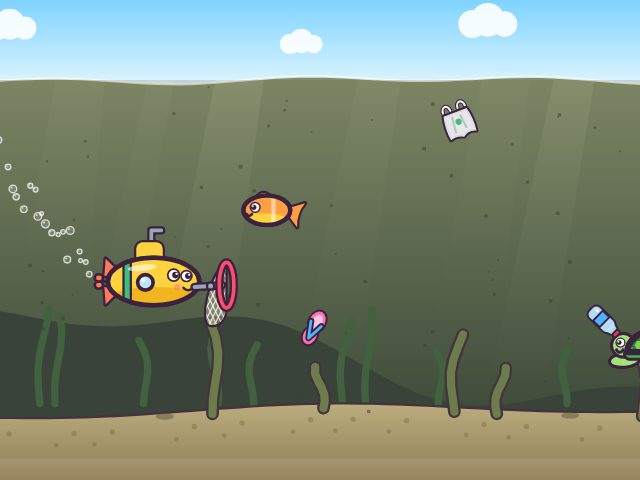
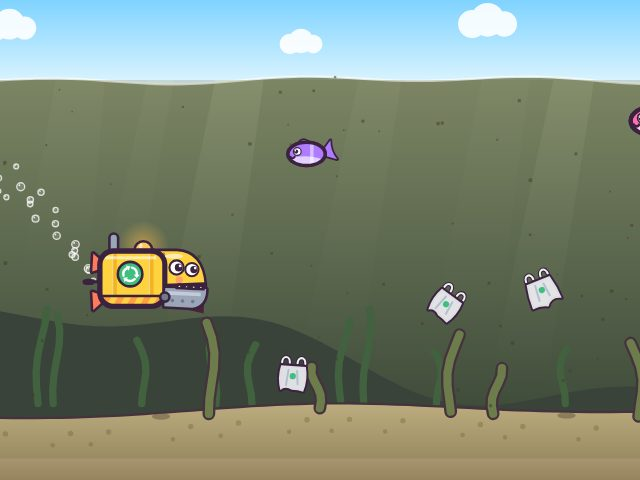
Plasticsoep Opruimer: garbage-truck sub with a chomping mouth
The submarine now has a garbage-truck container body, beacon light and a
mechanical jaw that opens when plastic comes close and chews after a bite
(replaces the net). The flip-flop becomes a cleaning spray bottle, and the
turtle is redrawn without the heavy rim outline.

diff --git a/games/plasticsoep-opruimer.html b/games/plasticsoep-opruimer.html
@@ -42,7 +42,7 @@ body{background:var(--sea);color:var(--ink);overflow:hidden;font-family:var(--fo
 </style>
 </head>
 <body>
-<canvas id="game" role="img" aria-label="Een gele duikboot vaart door de zee. Tik om omhoog te zwemmen en vang het plastic met het net; de vissen en andere zeedieren zwemmen er vrolijk omheen."></canvas>
+<canvas id="game" role="img" aria-label="Een gele duikboot vaart door de zee. Tik om omhoog te zwemmen en de duikboot-vuilniswagen eet het plastic op; de vissen en andere zeedieren zwemmen er vrolijk omheen."></canvas>
 <div class="count" id="count" aria-live="polite"><svg viewBox="0 0 40 40" aria-hidden="true"><g transform="rotate(-35 20 20)" stroke="#3b2340" stroke-width="2.6" stroke-linejoin="round"><rect x="13" y="12" width="14" height="24" rx="5" fill="#bfe6ff"/><rect x="13" y="20" width="14" height="7" fill="#4fb3ff"/><path d="M16 12 L17 7 H23 L24 12 Z" fill="#bfe6ff"/><rect x="16" y="2.5" width="8" height="5" rx="1.5" fill="#e8394d"/></g></svg><span id="num">0</span></div>
 <div class="title" id="title">
   <h1>Plasticsoep Opruimer</h1>
@@ -113,74 +113,83 @@ function eye(x,y,r,shut,look){
   c.fillStyle='#fff'; c.beginPath(); c.arc(x+(look||0)*r*0.3+r*0.2,y-r*0.22,r*0.2,0,P); c.fill();
 }
 
-/* ---------- submarine ---------- */
-const sub={y:0,vy:0,a:0,blink:3,happy:0,prop:0,squash:0};
-let netFill=[]; // colours of the bits of plastic in the net
-// net mouth in screen coordinates (the ring at the front)
-function netPos(){ const ca=Math.cos(sub.a), sa=Math.sin(sub.a), lx=S*1.6, ly=S*0.08; return [subX+lx*ca-ly*sa, sub.y+lx*sa+ly*ca]; }
+/* ---------- submarine (half garbage truck: a container body and a chomping mouth at the front) ---------- */
+const sub={y:0,vy:0,a:0,blink:3,happy:0,prop:0,squash:0,mouth:0,chew:0};
+// where the mouth swallows things, in screen coordinates
+function mouthPos(){ const ca=Math.cos(sub.a), sa=Math.sin(sub.a), lx=S*0.85*1.12, ly=S*0.22*1.12; return [subX+lx*ca-ly*sa, sub.y+lx*sa+ly*ca]; }
+function recycle(x,y,r){ // green badge with three chasing arrows
+  c.beginPath(); c.arc(x,y,r,0,P); c.fillStyle='#3fbf7f'; c.fill(); c.strokeStyle=INK; c.lineWidth=lw(); c.stroke();
+  c.strokeStyle='#fff'; c.fillStyle='#fff'; c.lineWidth=r*0.2; c.lineCap='round';
+  for(let i=0;i<3;i++){
+    const a0=i/3*P-Math.PI/2+0.3, a1=a0+P/3-0.75, rr=r*0.55, hx=x+Math.cos(a1)*rr, hy=y+Math.sin(a1)*rr, ta=a1+Math.PI/2;
+    c.beginPath(); c.arc(x,y,rr,a0,a1); c.stroke();
+    c.beginPath(); c.moveTo(hx+Math.cos(ta)*r*0.3,hy+Math.sin(ta)*r*0.3); c.lineTo(hx+Math.cos(a1)*r*0.24,hy+Math.sin(a1)*r*0.24); c.lineTo(hx-Math.cos(a1)*r*0.24,hy-Math.sin(a1)*r*0.24); c.closePath(); c.fill();
+  }
+}
 function drawSub(){
   const s=S, w=lw();
   c.save(); c.translate(subX,sub.y); c.rotate(sub.a);
-  const sq=1+sub.squash*0.12; c.scale(sq,1/sq);
+  const sq=1+sub.squash*0.12; c.scale(sq*1.12,1.12/sq);
   c.lineJoin='round'; c.lineCap='round';
-  // net bag (behind the hull), sagging under the nose
-  const bag=()=>{ c.beginPath(); c.moveTo(s*1.6,-s*0.42); c.bezierCurveTo(s*1.25,-s*0.3,s*0.95,s*0.95,s*1.25,s*0.98); c.bezierCurveTo(s*1.5,s*1.0,s*1.62,s*0.75,s*1.6,s*0.58); c.closePath(); };
-  bag(); c.fillStyle='rgba(255,248,236,0.25)'; c.fill();
-  c.save(); bag(); c.clip();
-  netFill.forEach((col,i)=>{ c.fillStyle=col; c.beginPath(); c.arc(s*(1.22+(i%3)*0.13),s*(0.86-Math.floor(i/3)*0.12),s*0.09,0,P); c.fill(); });
-  c.strokeStyle='rgba(255,248,236,0.85)'; c.lineWidth=Math.max(1,s*0.025);
-  for(let i=-6;i<8;i++){ c.beginPath(); c.moveTo(s*(0.9+i*0.12),-s*0.5); c.lineTo(s*(0.9+i*0.12+0.8),s*1.1); c.stroke(); c.beginPath(); c.moveTo(s*(0.9+i*0.12),s*1.1); c.lineTo(s*(0.9+i*0.12+0.8),-s*0.5); c.stroke(); }
-  c.restore();
-  bag(); c.strokeStyle=INK; c.lineWidth=w; c.stroke();
   // propeller
   const pr=Math.sin(sub.prop);
   c.strokeStyle=INK; c.lineWidth=w*1.2;
-  c.beginPath(); c.moveTo(-s*0.95,0); c.lineTo(-s*1.18,0); c.stroke();
+  c.beginPath(); c.moveTo(-s*1.0,0); c.lineTo(-s*1.25,0); c.stroke();
   c.fillStyle='#ff7a59';
-  for(const k of [1,-1]){ c.beginPath(); c.ellipse(-s*1.2,k*s*0.2*pr,s*0.09,Math.max(s*0.02,s*0.2*Math.abs(pr)),0,0,P); c.fill(); c.stroke(); }
+  for(const k of [1,-1]){ c.beginPath(); c.ellipse(-s*1.27,k*s*0.2*pr,s*0.09,Math.max(s*0.02,s*0.2*Math.abs(pr)),0,0,P); c.fill(); c.stroke(); }
   // tail fins
   outlineFill([
-    ()=>{ c.beginPath(); c.moveTo(-s*0.75,-s*0.2); c.lineTo(-s*1.05,-s*0.5); c.lineTo(-s*1.08,-s*0.12); c.closePath(); },
-    ()=>{ c.beginPath(); c.moveTo(-s*0.75,s*0.2); c.lineTo(-s*1.05,s*0.5); c.lineTo(-s*1.08,s*0.12); c.closePath(); },
+    ()=>{ c.beginPath(); c.moveTo(-s*0.9,-s*0.3); c.lineTo(-s*1.18,-s*0.55); c.lineTo(-s*1.2,-s*0.2); c.closePath(); },
+    ()=>{ c.beginPath(); c.moveTo(-s*0.9,s*0.3); c.lineTo(-s*1.18,s*0.55); c.lineTo(-s*1.2,s*0.2); c.closePath(); },
   ],'#ff7a59',w);
-  // conning tower + periscope
-  c.strokeStyle=INK; c.lineWidth=s*0.08+w*2;
-  c.beginPath(); c.moveTo(-s*0.05,-s*0.75); c.lineTo(-s*0.05,-s*1.12); c.lineTo(s*0.17,-s*1.12); c.stroke();
-  c.strokeStyle='#9aa6b8'; c.lineWidth=s*0.08; c.stroke();
-  outlineFill([()=>{ rrect(-s*0.38,-s*0.86,s*0.58,s*0.5,s*0.14); }],'#ffd23f',w);
-  // hull
-  const hull=()=>{ c.beginPath(); c.ellipse(0,0,s*1.0,s*0.52,0,0,P); };
-  outlineFill([hull],'#ffd23f',w);
-  c.save(); hull(); c.clip();
-  c.fillStyle='#f2b51f'; c.beginPath(); c.ellipse(s*0.05,s*0.42,s*1.1,s*0.3,0,0,P); c.fill();
-  c.fillStyle='#3fbf7f'; c.fillRect(-s*0.66,-s*0.6,s*0.16,s*1.2);
+  // exhaust pipe and the orange beacon light on the roof
+  c.strokeStyle=INK; c.lineWidth=s*0.12+w*2; c.beginPath(); c.moveTo(-s*0.78,-s*0.5); c.lineTo(-s*0.78,-s*0.86); c.stroke();
+  c.strokeStyle='#9aa6b8'; c.lineWidth=s*0.12; c.stroke();
+  const bl=0.5+0.5*Math.sin(t*(RM?2:7)), bx=-s*0.2, by=-s*0.62;
+  const gl=c.createRadialGradient(bx,by-s*0.08,0,bx,by-s*0.08,s*0.5); gl.addColorStop(0,'rgba(255,190,80,'+(0.55*bl)+')'); gl.addColorStop(1,'rgba(255,190,80,0)');
+  c.fillStyle=gl; c.beginPath(); c.arc(bx,by-s*0.08,s*0.5,0,P); c.fill();
+  outlineFill([()=>{ c.beginPath(); c.arc(bx,by,s*0.15,Math.PI,P); c.closePath(); }],mix([230,120,40],[255,200,90],bl),w);
+  c.fillStyle='rgba(255,255,255,0.7)'; c.beginPath(); c.ellipse(bx-s*0.05,by-s*0.08,s*0.03,s*0.05,0.4,0,P); c.fill();
+  // container + cab, outlined together so they read as one body
+  const box=()=>rrect(-s*1.05,-s*0.6,s*1.27,s*1.08,s*0.26);
+  const cab=()=>{ c.beginPath(); c.moveTo(0,-s*0.6); c.lineTo(s*0.45,-s*0.6); c.quadraticCurveTo(s*0.95,-s*0.58,s*1.0,s*0.06); c.lineTo(0,s*0.1); c.closePath(); };
+  outlineFill([box,cab],'#ffd23f',w);
+  c.save(); box(); c.clip();
+  c.fillStyle='#ff9f43'; c.fillRect(-s*1.1,s*0.28,s*1.4,s*0.3);
+  c.fillStyle='#ffd23f'; for(let x=-s*1.2;x<s*0.3;x+=s*0.26){ c.beginPath(); c.moveTo(x,s*0.5); c.lineTo(x+s*0.13,s*0.5); c.lineTo(x+s*0.25,s*0.28); c.lineTo(x+s*0.12,s*0.28); c.closePath(); c.fill(); }
+  for(const x of [-0.82,-0.1]){ c.fillStyle='#f2b51f'; c.fillRect(x*s,-s*0.6,s*0.1,s*0.88); c.fillStyle='rgba(255,255,255,0.45)'; c.fillRect(x*s,-s*0.6,s*0.03,s*0.88); }
+  c.fillStyle='rgba(255,255,255,0.55)'; c.fillRect(-s*0.95,-s*0.5,s*1.0,s*0.06);
   c.restore();
-  c.strokeStyle=INK; c.lineWidth=w; c.beginPath(); c.moveTo(-s*0.66,-s*0.42); c.lineTo(-s*0.66,s*0.42); c.moveTo(-s*0.5,-s*0.48); c.lineTo(-s*0.5,s*0.48); c.stroke();
-  hull(); c.lineWidth=w*2; c.stroke();
-  c.fillStyle='rgba(255,255,255,0.6)'; c.beginPath(); c.ellipse(-s*0.25,-s*0.3,s*0.32,s*0.07,-0.1,0,P); c.fill();
-  // porthole
-  c.beginPath(); c.arc(-s*0.18,s*0.02,s*0.17,0,P); c.fillStyle='#bfe6ff'; c.fill(); c.lineWidth=w*1.6; c.strokeStyle=INK; c.stroke();
-  c.fillStyle='rgba(255,255,255,0.8)'; c.beginPath(); c.arc(-s*0.23,-s*0.03,s*0.05,0,P); c.fill();
+  c.strokeStyle=INK; c.lineWidth=w; c.beginPath(); c.moveTo(-s*1.0,s*0.28); c.lineTo(s*0.2,s*0.28); c.stroke();
+  recycle(-s*0.46,-s*0.15,s*0.24);
+  c.strokeStyle='rgba(59,35,64,0.4)'; c.lineWidth=w; c.beginPath(); c.moveTo(s*0.2,-s*0.55); c.lineTo(s*0.2,s*0.08); c.stroke();
+  box(); c.strokeStyle=INK; c.lineWidth=w*2; c.stroke();
+  // the mouth: a dark gap behind the jaw, steel teeth on top, a hinged scoop jaw below
+  const open=sub.mouth*0.62;
+  c.fillStyle='#4a2338'; c.beginPath(); c.moveTo(s*0.25,s*0.08); c.lineTo(s*1.0,s*0.06); c.lineTo(s*0.98,s*0.62); c.lineTo(s*0.25,s*0.45); c.closePath(); c.fill();
+  c.fillStyle='#e8eaf2'; c.strokeStyle=INK; c.lineWidth=w;
+  for(let i=0;i<4;i++){ const x=s*(0.42+i*0.15); c.beginPath(); c.moveTo(x,s*0.07); c.lineTo(x+s*0.12,s*0.07); c.quadraticCurveTo(x+s*0.06,s*0.24,x,s*0.07); c.closePath(); c.fill(); c.stroke(); }
+  c.beginPath(); c.moveTo(s*0.25,s*0.09); c.lineTo(s*1.0,s*0.06); c.lineWidth=w*2; c.stroke();
+  c.save(); c.translate(s*0.22,s*0.3); c.rotate(open);
+  const jaw=()=>{ c.beginPath(); c.moveTo(0,-s*0.18); c.lineTo(s*0.8,-s*0.2); c.quadraticCurveTo(s*0.82,s*0.12,s*0.55,s*0.18); c.lineTo(0,s*0.18); c.closePath(); };
+  outlineFill([jaw],'#9aa6b8',w);
+  c.fillStyle='#c4cbd8'; c.fillRect(s*0.05,-s*0.12,s*0.65,s*0.07);
+  for(const x of [0.15,0.35,0.55]){ c.fillStyle='#6f7a8e'; c.beginPath(); c.arc(x*s,s*0.06,s*0.035,0,P); c.fill(); }
+  c.fillStyle='#e8eaf2'; c.strokeStyle=INK; c.lineWidth=w;
+  for(let i=0;i<4;i++){ const x=s*(0.22+i*0.14); c.beginPath(); c.moveTo(x,-s*0.19); c.lineTo(x+s*0.11,-s*0.19); c.quadraticCurveTo(x+s*0.055,-s*0.34,x,-s*0.19); c.closePath(); c.fill(); c.stroke(); }
+  c.restore();
+  c.beginPath(); c.arc(s*0.22,s*0.3,s*0.09,0,P); c.fillStyle='#6f7a8e'; c.fill(); c.strokeStyle=INK; c.lineWidth=w; c.stroke();
   // face
-  const shut=sub.blink<0.13||sub.happy>0.4;
-  eye(s*0.44,-s*0.14,s*0.13,shut,1);
-  eye(s*0.72,-s*0.12,s*0.12,shut,1);
-  c.fillStyle='rgba(255,110,140,0.5)'; c.beginPath(); c.arc(s*0.52,s*0.12,s*0.07,0,P); c.fill();
-  c.strokeStyle=INK; c.lineWidth=w*1.1; c.beginPath();
-  if(sub.happy>0.05){ c.moveTo(s*0.6,s*0.08); c.quadraticCurveTo(s*0.78,s*0.34,s*0.92,s*0.05); c.closePath(); c.fillStyle='#ff6b8a'; c.fill(); c.stroke(); }
-  else { c.arc(s*0.76,s*0.06,s*0.13,Math.PI*0.2,Math.PI*0.8); c.stroke(); }
-  // grabber arm + net ring in front
-  c.strokeStyle=INK; c.lineWidth=s*0.09+w*2; c.beginPath(); c.moveTo(s*0.9,s*0.12); c.lineTo(s*1.25,s*0.1); c.lineTo(s*1.5,s*0.08); c.stroke();
-  c.strokeStyle='#9aa6b8'; c.lineWidth=s*0.09; c.stroke();
-  c.beginPath(); c.arc(s*1.25,s*0.1,s*0.08,0,P); c.fillStyle='#9aa6b8'; c.fill(); c.strokeStyle=INK; c.lineWidth=w; c.stroke();
-  c.beginPath(); c.ellipse(s*1.6,s*0.08,s*0.16,s*0.5,0,0,P); c.strokeStyle=INK; c.lineWidth=s*0.08+w*2; c.stroke();
-  c.strokeStyle='#ff4d6d'; c.lineWidth=s*0.08; c.stroke();
+  const shut=sub.blink<0.13||sub.happy>0.4||sub.chew>0;
+  eye(s*0.45,-s*0.28,s*0.14,shut,1);
+  eye(s*0.75,-s*0.24,s*0.13,shut,1);
+  c.fillStyle='rgba(255,110,140,0.5)'; c.beginPath(); c.arc(s*0.5,-s*0.04,s*0.07,0,P); c.fill();
+  c.fillStyle='rgba(255,255,255,0.6)'; c.beginPath(); c.ellipse(s*0.4,-s*0.5,s*0.18,s*0.05,0,0,P); c.fill();
   c.restore();
 }
 
 /* ---------- plastic ---------- */
-const TYPES=['bottle','bag','straw','can','flipflop'];
-const BITS={bottle:'#9fd8ff',bag:'#f4f4f4',straw:'#ff4d6d',can:'#e8394d',flipflop:'#ff6fae'};
+const TYPES=['bottle','bag','straw','can','spray'];
 let items=[], flyers=[], nextItem=1;
 function drawPlastic(type,s,ph){
   const w=Math.max(1.3,s*0.05);
@@ -212,13 +221,14 @@ function drawPlastic(type,s,ph){
     outlineFill([body],'rgba(246,246,250,0.88)',w);
     c.strokeStyle='rgba(160,175,200,0.7)'; c.lineWidth=w; c.beginPath(); c.moveTo(-s*0.12,-s*0.12); c.lineTo(-s*0.16,s*0.28); c.moveTo(s*0.1,-s*0.1); c.lineTo(s*0.14,s*0.24); c.stroke();
     c.fillStyle='#3fbf7f'; c.beginPath(); c.arc(0,s*0.04,s*0.08,0,P); c.fill();
-  } else if(type==='flipflop'){
-    const sole=()=>{ c.beginPath(); c.ellipse(-s*0.18,0,s*0.28,s*0.2,0,0,P); c.ellipse(s*0.22,0,s*0.24,s*0.17,0,0,P); };
-    c.strokeStyle=INK; c.lineWidth=w*2; sole(); c.stroke();
-    c.fillStyle='#ff6fae'; sole(); c.fill();
-    c.fillStyle='#ffc4df'; c.beginPath(); c.ellipse(-s*0.18,0,s*0.2,s*0.13,0,0,P); c.ellipse(s*0.22,0,s*0.17,s*0.11,0,0,P); c.fill();
-    c.strokeStyle=INK; c.lineWidth=s*0.07+w*2; c.beginPath(); c.moveTo(-s*0.12,-s*0.15); c.lineTo(s*0.3,0); c.lineTo(-s*0.12,s*0.15); c.stroke();
-    c.strokeStyle='#4fb3ff'; c.lineWidth=s*0.07; c.stroke();
+  } else if(type==='spray'){
+    // cleaning spray: trigger head with nozzle on a soft green bottle
+    outlineFill([()=>{ rrect(-s*0.2,-s*0.12,s*0.4,s*0.6,s*0.12); },()=>{ rrect(-s*0.1,-s*0.22,s*0.2,s*0.14,s*0.03); }],'rgba(150,230,190,0.95)',w);
+    c.fillStyle='#fff'; c.fillRect(-s*0.2,s*0.06,s*0.4,s*0.2); c.strokeStyle=INK; c.lineWidth=w; c.strokeRect(-s*0.2,s*0.06,s*0.4,s*0.2);
+    c.fillStyle='#4fb3ff'; c.beginPath(); c.arc(0,s*0.16,s*0.06,0,P); c.fill();
+    outlineFill([()=>{ c.beginPath(); c.moveTo(-s*0.16,-s*0.22); c.lineTo(-s*0.16,-s*0.4); c.quadraticCurveTo(-s*0.14,-s*0.48,0,-s*0.48); c.lineTo(s*0.34,-s*0.46); c.lineTo(s*0.34,-s*0.36); c.lineTo(s*0.12,-s*0.34); c.lineTo(s*0.1,-s*0.22); c.closePath(); },
+                 ()=>{ c.beginPath(); c.moveTo(s*0.12,-s*0.34); c.quadraticCurveTo(s*0.24,-s*0.3,s*0.2,-s*0.12); c.lineTo(s*0.14,-s*0.14); c.quadraticCurveTo(s*0.15,-s*0.26,s*0.08,-s*0.3); c.closePath(); }],'#ff7a59',w);
+    c.strokeStyle='rgba(255,255,255,0.8)'; c.lineWidth=w*1.2; c.beginPath(); c.moveTo(-s*0.12,-s*0.02); c.lineTo(-s*0.12,s*0.02); c.stroke();
   }
 }
 function spawnItem(){
@@ -261,17 +271,23 @@ function drawCritter(k){
     else { c.arc(s*0.36,s*0.05,s*0.06,Math.PI*0.15,Math.PI*0.85); c.stroke(); }
   } else if(k.type==='turtle'){
     const fl=Math.sin(swim*0.6)*0.5*MOT;
-    for(const [fx,fy,a] of [[s*0.3,s*0.18,0.6+fl],[-s*0.3,s*0.18,2.4-fl]]){
-      c.save(); c.translate(fx,fy); c.rotate(a); outlineFill([()=>{ c.beginPath(); c.ellipse(s*0.16,0,s*0.2,s*0.08,0,0,P); }],'#a6e07a',w); c.restore();
-    }
-    outlineFill([()=>{ c.beginPath(); c.arc(s*0.48,-s*0.02,s*0.15,0,P); }],'#a6e07a',w);
-    const shell=()=>{ c.beginPath(); c.ellipse(0,s*0.08,s*0.42,s*0.32,0,Math.PI,P); c.closePath(); };
-    outlineFill([shell,()=>{ rrect(-s*0.44,s*0.06,s*0.88,s*0.1,s*0.05); }],'#4caf50',w);
-    c.save(); shell(); c.clip(); c.strokeStyle='#2e7d32'; c.lineWidth=w; c.fillStyle='#7fcf5a';
-    for(const [hx,hy] of [[0,-s*0.12],[-s*0.24,-s*0.02],[s*0.24,-s*0.02]]){ c.beginPath(); for(let i=0;i<6;i++){ const a=i/6*P; c.lineTo(hx+Math.cos(a)*s*0.1,hy+Math.sin(a)*s*0.1); } c.closePath(); c.fill(); c.stroke(); }
-    c.restore(); c.strokeStyle=INK; c.lineWidth=w*2; shell(); c.stroke();
-    eye(s*0.52,-s*0.06,s*0.065,shut,1);
-    c.lineWidth=w; c.beginPath(); c.arc(s*0.53,s*0.03,s*0.05,Math.PI*0.1,Math.PI*0.9); c.stroke();
+    const flip=(fx,fy,a)=>()=>{ c.beginPath(); c.ellipse(fx+Math.cos(a)*s*0.16,fy+Math.sin(a)*s*0.16,s*0.2,s*0.08,a,0,P); };
+    const parts=[[flip(s*0.25,s*0.12,0.6+fl),'#8fd16a'],[flip(-s*0.28,s*0.12,2.5-fl),'#8fd16a'],
+      [()=>{ c.beginPath(); c.moveTo(-s*0.4,s*0.06); c.lineTo(-s*0.56,s*0.1); c.lineTo(-s*0.4,s*0.14); c.closePath(); },'#8fd16a'],
+      [()=>{ c.beginPath(); c.arc(s*0.5,-s*0.02,s*0.15,0,P); },'#8fd16a'],
+      [()=>{ c.beginPath(); c.ellipse(0,s*0.09,s*0.42,s*0.08,0,0,P); },'#f3e2a0'],
+      [()=>{ c.beginPath(); c.ellipse(0,s*0.07,s*0.42,s*0.36,0,Math.PI,P); c.closePath(); },'#4caf50']];
+    c.strokeStyle=INK; c.lineWidth=w*2; for(const [p] of parts){ p(); c.stroke(); }
+    for(const [p,col] of parts){ c.fillStyle=col; p(); c.fill(); }
+    c.save(); c.beginPath(); c.ellipse(0,s*0.07,s*0.42,s*0.36,0,Math.PI,P); c.closePath(); c.clip();
+    c.strokeStyle='#2f8a3a'; c.lineWidth=w; c.fillStyle='#6cc24a';
+    for(const [hx,hy] of [[0,-s*0.13],[-s*0.24,-s*0.02],[s*0.24,-s*0.02]]){ c.beginPath(); for(let i=0;i<6;i++){ const a=i/6*P; c.lineTo(hx+Math.cos(a)*s*0.1,hy+Math.sin(a)*s*0.1); } c.closePath(); c.fill(); c.stroke(); }
+    c.fillStyle='rgba(255,255,255,0.35)'; c.beginPath(); c.ellipse(-s*0.12,-s*0.2,s*0.1,s*0.04,-0.4,0,P); c.fill();
+    c.restore();
+    eye(s*0.53,-s*0.06,s*0.065,shut,1);
+    c.strokeStyle=INK; c.lineWidth=w; c.beginPath();
+    if(hp){ c.arc(s*0.55,s*0.03,s*0.05,0,Math.PI); c.closePath(); c.fillStyle='#ff6b8a'; c.fill(); c.stroke(); }
+    else { c.arc(s*0.55,s*0.02,s*0.05,Math.PI*0.1,Math.PI*0.9); c.stroke(); }
   } else if(k.type==='jelly'){
     const pu=Math.sin(t*3+k.ph)*0.08*MOT;
     c.save(); c.scale(1+pu,1-pu);
@@ -499,6 +515,7 @@ const SFX={
   blub(){ tone(150,0,0.16,'sine',0.28,420); tone(240,0.07,0.12,'sine',0.14,640); },
   slurp(){ noise(0,0.24,0.2,400,2600,4); tone(260,0,0.22,'triangle',0.08,900); },
   pop(){ tone(1100,0,0.09,'sine',0.26,260); noise(0,0.05,0.18,3000,0,1); },
+  munch(){ [0.06,0.18,0.3].forEach(d=>{ noise(d,0.06,0.16,1400,600,2); tone(180,d,0.06,'square',0.04,120); }); },
   tick(){ tone(1320,0,0.08,'triangle',0.1); tone(1760,0.05,0.1,'triangle',0.08); },
   giggle(){ [0,1,2,3,4].forEach(i=>{ const f=(i%2?760:900)-i*30; tone(f,i*0.085,0.075,'triangle',0.13,f*0.8); tone(f*2,i*0.085,0.05,'sine',0.03); }); },
   boing(){ tone(200,0,0.22,'sine',0.1,380); },
@@ -557,7 +574,7 @@ function arrive(f){
   if(count%10===0){
     countEl.classList.add('party'); SFX.fanfare();
     burst(subX,sub.y,30,S*1.2); sparkles(W/2,S*1.2,24,1.4); sparkles(subX,sub.y-S*0.5,20,1.2);
-    sub.happy=2; netFill=[];
+    sub.happy=2;
   } else { countEl.classList.add('bump'); SFX.tick(); }
 }
 function update(dt){
@@ -579,16 +596,19 @@ function update(dt){
 
   // plastic drifting in
   if((nextItem-=dt)<0){ nextItem=rand(1.1,2); spawnItem(); }
-  const [nx,ny]=netPos();
+  const [nx,ny]=mouthPos();
+  // the mouth opens when plastic comes close and chews after a bite
+  const want=items.some(it=>it.st>=0||(it.x>subX&&it.x-subX<S*3.2&&Math.abs(it.y-sub.y)<S*1.4))?1:0.08;
+  if(sub.chew>0){ sub.chew=Math.max(0,sub.chew-dt); sub.mouth=Math.abs(Math.sin(sub.chew*22))*0.7; }
+  else sub.mouth+=(want-sub.mouth)*Math.min(1,dt*8);
   for(const it of items){
     if(it.st<0){
       it.x-=speed()*it.spd*dt; it.y=it.by+Math.sin(t*1.3+it.ph)*S*(it.type==='bag'?0.3:0.14)*MOT; it.rot+=it.vr*dt;
-      if(started&&(Math.hypot(it.x-nx,it.y-ny)<S*0.95||Math.hypot(it.x-subX,it.y-sub.y)<S*0.95)) caught(it);
+      if(started&&(Math.hypot(it.x-nx,it.y-ny)<S*1.05||Math.hypot(it.x-subX+S*0.2,it.y-sub.y)<S*1.0)) caught(it);
     } else {
       it.st+=dt; const e=ease(Math.min(1,it.st/0.28));
       it.x=lerp(it.sx,nx,e); it.y=lerp(it.sy,ny,e); it.rot+=dt*14;
-      if(it.st>=0.28){ it.done=true; SFX.pop(); ring(nx,ny); sparkles(nx,ny,8,0.6); sub.happy=Math.max(sub.happy,0.5);
-        netFill.push(BITS[it.type]); if(netFill.length>9) netFill.shift();
+      if(it.st>=0.28){ it.done=true; SFX.pop(); SFX.munch(); sub.chew=0.45; ring(nx,ny); sparkles(nx,ny,8,0.6); sub.happy=Math.max(sub.happy,0.5);
         flyers.push({type:it.type,x0:nx,y0:ny,t:0}); }
     }
   }
@@ -636,7 +656,7 @@ function draw(){
   drawMurk();
   for(const k of critters) drawCritter(k);
   for(const it of items){
-    const sc=it.st<0?1:1-0.7*ease(Math.min(1,it.st/0.28));
+    const sc=it.st<0?1:1-0.85*ease(Math.min(1,it.st/0.28));
     c.save(); c.translate(it.x,it.y); c.rotate(it.rot); c.scale(sc,sc); drawPlastic(it.type,S*0.85,it.ph); c.restore();
   }
   drawBubbles();

diff --git a/README.md b/README.md
@@ -13,7 +13,7 @@ Small browser games for the kids, bundled in one menu page.
   - `plassen-springer.html` – pixel-art puddle jumping on an endless rainy street
   - `meteorietenregen.html` – a rocket hops between 3 lanes on a tilted space plane, dodging meteorites and catching stars
   - `eendjes-vissen.html` – kermis duck fishing: hook rubber ducks, flip them over, and fill the prize shelves
-  - `plasticsoep-opruimer.html` – a yellow submarine swims up with each tap and nets floating plastic; the sea turns clear blue and fills with fish and coral as the count rises
+  - `plasticsoep-opruimer.html` – a yellow submarine-garbage-truck swims up with each tap and gobbles up floating plastic with its mechanical mouth; the sea turns clear blue and fills with fish and coral as the count rises
 - `hub/speelhoek.template.html` – the menu page; `__FONT_CSS__` and `__GAMES__` are replaced by the build
 - `hub/build.py` – bundles every game (plus covers and embedded fonts) into the web app in `site/`
 - `hub/covers.js` – takes a cover screenshot of each game (needs Node + Playwright: `npm install`)
